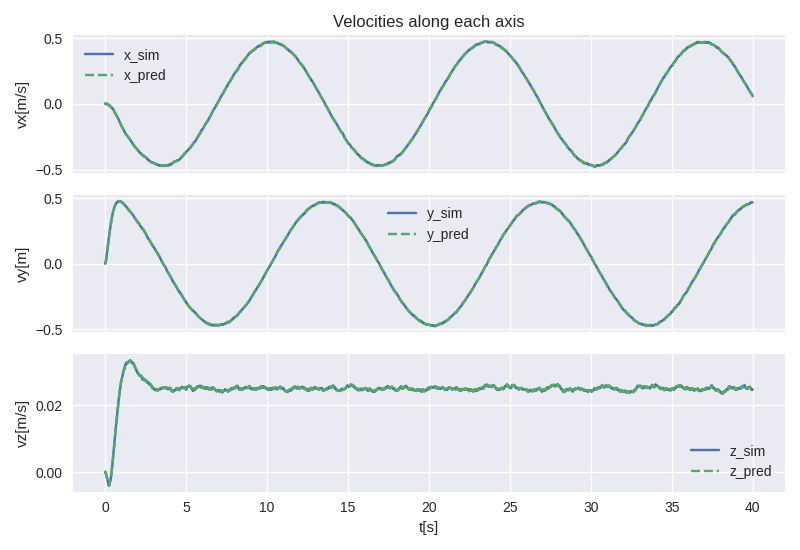
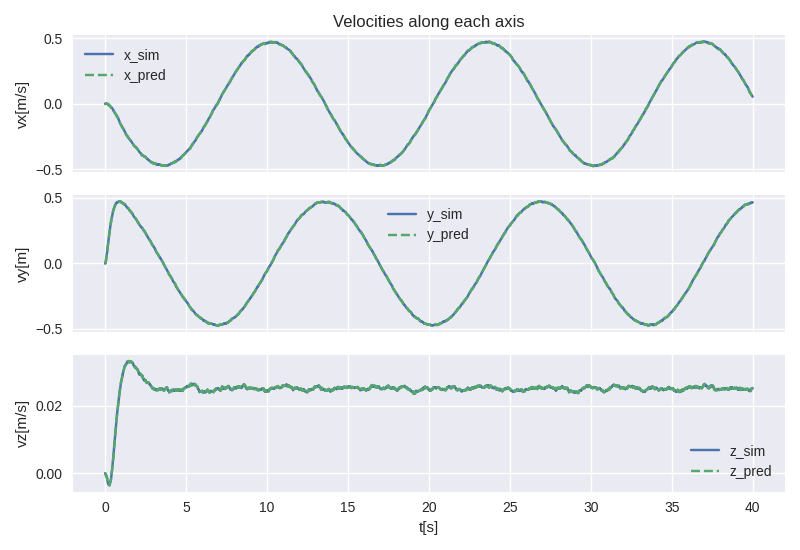
fixed small error in dynamics of position_mpc and started full_mpc

diff --git a/full_mpc/drone_model.py b/full_mpc/drone_model.py
@@ -22,27 +22,34 @@ def drone_model():
     px = MX.sym("px")
     py = MX.sym("py")
     pz = MX.sym("pz")
-    vx = MX.sym("vx")
-    vy = MX.sym("vy")
-    vz = MX.sym("vz")
-    x  = vertcat(px, py, pz, vx, vy, vz)
-
-    # controls
-    T  = MX.sym("T")
     qw = MX.sym("qw")
     qx = MX.sym("qx")
     qy = MX.sym("qy")
     qz = MX.sym("qz")
-    u = vertcat(T, qw, qx, qy, qz)
+    vx = MX.sym("vx")
+    vy = MX.sym("vy")
+    vz = MX.sym("vz")
+    x  = vertcat(px, py, pz, qw, qx, qy, qz, vx, vy, vz)
+
+    # controls
+    T  = MX.sym("T")
+    wx = MX.sym("qw")
+    wy = MX.sym("qx")
+    wz = MX.sym("qy")
+    u = vertcat(T, wx, wy, wz)
 
     # xdot
     pxdot = MX.sym("pxdot")
     pydot = MX.sym("pydot")
     pzdot = MX.sym("pzdot")
+    qwdot = MX.sym("qwdot")
+    qxdot = MX.sym("qxdot")
+    qydot = MX.sym("qydot")
+    qzdot = MX.sym("qzdot")
     vxdot = MX.sym("vxdot")
     vydot = MX.sym("vydot")
     vzdot = MX.sym("vzdot")
-    xdot  = vertcat(pxdot, pydot, pzdot, vxdot, vydot, vzdot)
+    xdot  = vertcat(pxdot, pydot, pzdot, qwdot, qxdot, qydot, qzdot, vxdot, vydot, vzdot)
 
     # algebraic variables 
     z = vertcat([])
@@ -55,9 +62,13 @@ def drone_model():
         vx,
         vy,
         vz,
+        0.5 * ( - wx * qx - wy * qy - wz * qz),
+        0.5 * (   wx * qw + wz * qy - wy * qz),
+        0.5 * (   wy * qw - wz * qx + wx * qz),
+        0.5 * (   wz * qw + wy * qx - wx * qy),
         2 * ( qw * qy + qx * qz ) * T,
         2 * ( qy * qz - qw * qx ) * T,
-        ( 1 - 2 * qx * qx - 2 * qy * qy ) * T - g,
+        ( 1 - 2 * qx * qx - 2 * qy * qy ) * T - g
     )
 
     # input bounds
@@ -65,7 +76,7 @@ def drone_model():
     model.throttle_max = 2*g
 
     # define initial condition
-    model.x0 = np.array([1.0, 0.0, 1.0, 0.0, 0.0, 0.0])
+    model.x0 = np.array([1.0, 0.0, 1.0, 1.0, 0.0, 0.0, 0.0, 0.0, 0.0, 0.0])
 
     # define model struct
     params = types.SimpleNamespace()

diff --git a/position_mpc/drone_model.py b/position_mpc/drone_model.py
@@ -57,7 +57,7 @@ def drone_model():
         vz,
         2 * ( qw * qy + qx * qz ) * T,
         2 * ( qy * qz - qw * qx ) * T,
-        ( 1 - 2 * qx * qx - 2 * qy * qy ) * T - g,
+        ( 1 - 2 * qx * qx - 2 * qy * qy ) * T - g
     )
 
     # input bounds
